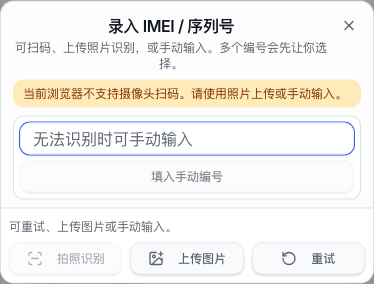
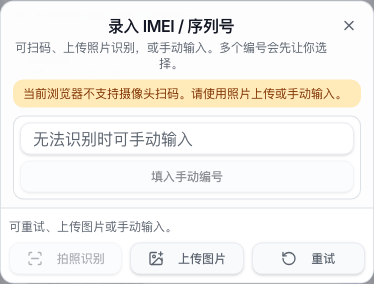
Fix IMEI overlay alignment and mobile focus

diff --git a/src/components/imei-scanner-field.tsx b/src/components/imei-scanner-field.tsx
@@ -42,6 +42,8 @@ type ImeiSelectableCandidate = ImeiCandidate & {
 type ImeiCapturePreview = {
   src: string;
   alt: string;
+  width?: number;
+  height?: number;
 };
 type ImeiRecognitionResult = {
   text: string;
@@ -49,6 +51,10 @@ type ImeiRecognitionResult = {
   detections?: ImeiBarcodeDetection[];
   preview?: ImeiCapturePreview;
   previewCleanup?: () => void;
+};
+type ImeiCaptureViewportSize = {
+  width: number;
+  height: number;
 };
 
 const imeiImageMaxBytes = 8 * 1024 * 1024;
@@ -100,9 +106,13 @@ export function ImeiScannerField({
   const [captureError, setCaptureError] = useState("");
   const [captureCandidates, setCaptureCandidates] = useState<ImeiSelectableCandidate[]>([]);
   const [capturePreview, setCapturePreview] = useState<ImeiCapturePreview | null>(null);
+  const [captureViewportSize, setCaptureViewportSize] = useState<ImeiCaptureViewportSize | null>(
+    null,
+  );
   const [selectedCandidateId, setSelectedCandidateId] = useState("");
   const [scannerManualValue, setScannerManualValue] = useState("");
   const videoRef = useRef<HTMLVideoElement | null>(null);
+  const captureViewportRef = useRef<HTMLDivElement | null>(null);
   const fileInputRef = useRef<HTMLInputElement | null>(null);
   const controlsRef = useRef<IScannerControls | null>(null);
   const capturePreviewCleanupRef = useRef<(() => void) | null>(null);
@@ -152,6 +162,7 @@ export function ImeiScannerField({
     setCaptureError("");
     setCaptureCandidates([]);
     replaceCapturePreview(null);
+    setCaptureViewportSize(null);
     setSelectedCandidateId("");
     setScannerManualValue("");
     setIsImageProcessing(false);
@@ -164,6 +175,37 @@ export function ImeiScannerField({
     },
     [],
   );
+
+  useEffect(() => {
+    if (!scannerOpen || !shouldShowCaptureViewport) {
+      setCaptureViewportSize(null);
+      return;
+    }
+
+    const element = captureViewportRef.current;
+    if (!element) return;
+
+    const updateViewportSize = () => {
+      const rect = element.getBoundingClientRect();
+      if (!rect.width || !rect.height) return;
+      setCaptureViewportSize((current) =>
+        current && current.width === rect.width && current.height === rect.height
+          ? current
+          : { width: rect.width, height: rect.height },
+      );
+    };
+
+    updateViewportSize();
+
+    if (typeof ResizeObserver === "undefined") {
+      window.addEventListener("resize", updateViewportSize);
+      return () => window.removeEventListener("resize", updateViewportSize);
+    }
+
+    const observer = new ResizeObserver(updateViewportSize);
+    observer.observe(element);
+    return () => observer.disconnect();
+  }, [scannerOpen, shouldShowCaptureViewport, capturePreview?.src]);
 
   const commitCandidate = useCallback(
     (candidate: ImeiCandidate) => {
@@ -524,7 +566,10 @@ export function ImeiScannerField({
       {warning && <p className="text-xs text-status-warn-foreground">{warning}</p>}
 
       <Dialog open={scannerOpen} onOpenChange={setScannerOpen}>
-        <DialogContent className="grid max-h-[calc(100svh-12px)] w-[min(32rem,calc(100vw-16px))] max-w-md grid-rows-[minmax(0,1fr)_auto] gap-0 overflow-hidden p-0">
+        <DialogContent
+          className="grid max-h-[calc(100svh-12px)] w-[min(32rem,calc(100vw-16px))] max-w-md grid-rows-[minmax(0,1fr)_auto] gap-0 overflow-hidden p-0"
+          onOpenAutoFocus={(event) => event.preventDefault()}
+        >
           <input
             ref={fileInputRef}
             type="file"
@@ -544,12 +589,15 @@ export function ImeiScannerField({
               </DialogDescription>
             </DialogHeader>
             {shouldShowCaptureViewport ? (
-              <div className="relative overflow-hidden rounded-md border bg-[var(--capture-preview)]">
+              <div
+                ref={captureViewportRef}
+                className="relative overflow-hidden rounded-md border bg-[var(--capture-preview)]"
+              >
                 {capturePreview ? (
                   <img
                     src={capturePreview.src}
                     alt={capturePreview.alt}
-                    className={captureViewportClassName}
+                    className={cn(captureViewportClassName, "object-contain")}
                   />
                 ) : (
                   <video
@@ -575,10 +623,11 @@ export function ImeiScannerField({
                               : "border-status-warn-foreground/90 bg-background/10 hover:bg-background/20",
                           )}
                           style={{
-                            left: `${candidate.box.x * 100}%`,
-                            top: `${candidate.box.y * 100}%`,
-                            width: `${candidate.box.width * 100}%`,
-                            height: `${candidate.box.height * 100}%`,
+                            ...getOverlayBoxStyle(
+                              candidate.box,
+                              capturePreview,
+                              captureViewportSize,
+                            ),
                           }}
                           aria-label={`选择画面候选 ${candidate.overlayIndex ?? index + 1}`}
                           aria-pressed={selectedCandidateId === candidate.id}
@@ -774,6 +823,8 @@ async function recognizeTextFromImageFile(file: File): Promise<ImeiRecognitionRe
       preview: {
         src: imageSource.image.src,
         alt: "上传图片预览",
+        width: imageSource.image.naturalWidth || imageSource.image.width,
+        height: imageSource.image.naturalHeight || imageSource.image.height,
       },
       previewCleanup: imageSource.cleanup,
     };
@@ -865,6 +916,8 @@ async function createImageElementFromVideoFrame(video: HTMLVideoElement) {
     preview: {
       src: image.src,
       alt: "当前摄像头画面截图",
+      width,
+      height,
     },
   };
 }
@@ -1034,6 +1087,50 @@ function findDetectionForCandidate(
     normalizeCaptureIdentifier(detection.rawValue).includes(candidate.value),
   );
   return directMatch ?? detections[fallbackIndex] ?? null;
+}
+
+function getOverlayBoxStyle(
+  box: ImeiCaptureBox,
+  preview: ImeiCapturePreview | null,
+  viewport: ImeiCaptureViewportSize | null,
+) {
+  if (!preview?.width || !preview.height || !viewport?.width || !viewport.height) {
+    return {
+      left: `${box.x * 100}%`,
+      top: `${box.y * 100}%`,
+      width: `${box.width * 100}%`,
+      height: `${box.height * 100}%`,
+    };
+  }
+
+  const imageRatio = preview.width / preview.height;
+  const viewportRatio = viewport.width / viewport.height;
+  const rendered =
+    viewportRatio > imageRatio
+      ? {
+          width: viewport.height * imageRatio,
+          height: viewport.height,
+          x: (viewport.width - viewport.height * imageRatio) / 2,
+          y: 0,
+        }
+      : {
+          width: viewport.width,
+          height: viewport.width / imageRatio,
+          x: 0,
+          y: (viewport.height - viewport.width / imageRatio) / 2,
+        };
+
+  const left = rendered.x + box.x * rendered.width;
+  const top = rendered.y + box.y * rendered.height;
+  const width = box.width * rendered.width;
+  const height = box.height * rendered.height;
+
+  return {
+    left: `${(left / viewport.width) * 100}%`,
+    top: `${(top / viewport.height) * 100}%`,
+    width: `${(width / viewport.width) * 100}%`,
+    height: `${(height / viewport.height) * 100}%`,
+  };
 }
 
 function getNormalizedDetectionBox(

diff --git a/src/components/imei-scanner-field.test.tsx b/src/components/imei-scanner-field.test.tsx
@@ -194,6 +194,18 @@ describe("ImeiScannerField", () => {
     expect(zxingMocks.stop).not.toHaveBeenCalled();
   });
 
+  it("does not autofocus the manual input when the scanner opens", async () => {
+    const user = userEvent.setup();
+    zxingMocks.decodeFromConstraints.mockResolvedValue({ stop: zxingMocks.stop });
+
+    render(<ImeiScannerField value="" onChange={vi.fn()} />);
+
+    await user.click(screen.getByRole("button", { name: "摄像头扫码录入 IMEI" }));
+
+    const manualInput = await screen.findByPlaceholderText("无法识别时可手动输入");
+    expect(manualInput).not.toHaveFocus();
+  });
+
   it("shows multiple camera candidates before committing a value", async () => {
     const user = userEvent.setup({ applyAccept: false });
     const onChange = vi.fn();
@@ -235,12 +247,63 @@ describe("ImeiScannerField", () => {
       HTMLCanvasElement.prototype,
       "toDataURL",
     );
+    const getBoundingClientRectDescriptor = Object.getOwnPropertyDescriptor(
+      HTMLElement.prototype,
+      "getBoundingClientRect",
+    );
     const barcodeDetectorDescriptor = Object.getOwnPropertyDescriptor(window, "BarcodeDetector");
 
     zxingMocks.decodeFromConstraints.mockResolvedValue({ stop: zxingMocks.stop });
+    vi.stubGlobal(
+      "ResizeObserver",
+      class ResizeObserverMock {
+        private readonly callback: ResizeObserverCallback;
+
+        constructor(callback: ResizeObserverCallback) {
+          this.callback = callback;
+        }
+
+        observe() {
+          this.callback([], this);
+        }
+
+        unobserve() {}
+
+        disconnect() {}
+      },
+    );
     Object.defineProperty(HTMLImageElement.prototype, "decode", {
       configurable: true,
       value: vi.fn().mockResolvedValue(undefined),
+    });
+    Object.defineProperty(HTMLElement.prototype, "getBoundingClientRect", {
+      configurable: true,
+      value(this: HTMLElement) {
+        if (this.querySelector('img[alt="当前摄像头画面截图"]')) {
+          return {
+            width: 320,
+            height: 160,
+            top: 0,
+            right: 320,
+            bottom: 160,
+            left: 0,
+            x: 0,
+            y: 0,
+            toJSON: () => undefined,
+          };
+        }
+        return {
+          width: 0,
+          height: 0,
+          top: 0,
+          right: 0,
+          bottom: 0,
+          left: 0,
+          x: 0,
+          y: 0,
+          toJSON: () => undefined,
+        };
+      },
     });
     Object.defineProperty(HTMLCanvasElement.prototype, "getContext", {
       configurable: true,
@@ -293,10 +356,14 @@ describe("ImeiScannerField", () => {
       expect(screen.getByRole("button", { name: /356938035643809/ })).toBeInTheDocument();
       expect(screen.getByRole("button", { name: /AUNWE02SB05002790/ })).toBeInTheDocument();
       expect(screen.getByAltText("当前摄像头画面截图")).toBeInTheDocument();
-      expect(screen.getByRole("button", { name: "选择画面候选 2" })).toBeInTheDocument();
+      const secondOverlayCandidate = screen.getByRole("button", { name: "选择画面候选 2" });
+      expect(secondOverlayCandidate).toBeInTheDocument();
+      await waitFor(() =>
+        expect(parseFloat(secondOverlayCandidate.style.left)).toBeGreaterThan(25),
+      );
       expect(onChange).not.toHaveBeenCalled();
 
-      await user.click(screen.getByRole("button", { name: "选择画面候选 2" }));
+      await user.click(secondOverlayCandidate);
       await user.click(screen.getByRole("button", { name: "使用选择的编号" }));
 
       expect(onChange).toHaveBeenLastCalledWith("356938035643809");
@@ -315,6 +382,15 @@ describe("ImeiScannerField", () => {
       }
       if (canvasToDataUrlDescriptor) {
         Object.defineProperty(HTMLCanvasElement.prototype, "toDataURL", canvasToDataUrlDescriptor);
+      }
+      if (getBoundingClientRectDescriptor) {
+        Object.defineProperty(
+          HTMLElement.prototype,
+          "getBoundingClientRect",
+          getBoundingClientRectDescriptor,
+        );
+      } else {
+        delete (HTMLElement.prototype as Partial<HTMLElement>).getBoundingClientRect;
       }
       if (barcodeDetectorDescriptor) {
         Object.defineProperty(window, "BarcodeDetector", barcodeDetectorDescriptor);

diff --git a/.ai-company/memory/tasks/TASK-20260709-003-imei-overlay-selection/EVIDENCE.md b/.ai-company/memory/tasks/TASK-20260709-003-imei-overlay-selection/EVIDENCE.md
@@ -15,6 +15,16 @@
 | E-011 | screenshot | mobile camera unsupported fallback no longer wastes video space | `screenshots/TASK-20260709-003-imei-overlay-selection/imei-new-order-camera-fallback-mobile-safari.png` | verified | 2026-07-08T23:12:58Z | CEO-Orchestrator |
 | E-012 | screenshot | fake camera mobile candidate and decoded states captured | `screenshots/TASK-20260709-003-imei-overlay-selection/imei-new-order-fake-camera-candidates-chromium-fake-camera-mobile.png`; `screenshots/TASK-20260709-003-imei-overlay-selection/imei-new-order-fake-camera-decoded-chromium-fake-camera-mobile.png` | verified | 2026-07-08T23:12:58Z | CEO-Orchestrator |
 | E-013 | tooling | `tools/ai_company.py checkpoint` unavailable under system Python 3.9 because `tomllib` requires Python 3.11+ | `python3 tools/ai_company.py checkpoint --help`; `python3 --version` | blocked, manual structured checkpoint used | 2026-07-08T23:12:58Z | CEO-Orchestrator |
+| E-014 | bug report | overlay boxes were visually misaligned and scanner open triggered mobile keyboard | owner screenshot and request | observed | 2026-07-08T23:24:57Z | CEO-Orchestrator |
+| E-015 | code | overlay box style now compensates object-contain rendered image offsets using preview dimensions and measured viewport size | `src/components/imei-scanner-field.tsx` | implemented | 2026-07-08T23:24:57Z | CEO-Orchestrator |
+| E-016 | code | scanner dialog open no longer autofocuses the manual input, preventing mobile keyboard auto popup | `src/components/imei-scanner-field.tsx` | implemented | 2026-07-08T23:24:57Z | CEO-Orchestrator |
+| E-017 | test | component regression covers no autofocus and contain-offset overlay compensation | `npm run test -- src/components/imei-scanner-field.test.tsx` | 18 passed | 2026-07-08T23:23:08Z | CEO-Orchestrator |
+| E-018 | static | TypeScript contract valid after bugfix | `npm run typecheck` | passed | 2026-07-08T23:23:08Z | CEO-Orchestrator |
+| E-019 | static | lint rules valid after bugfix | `npm run lint` | passed | 2026-07-08T23:24:15Z | CEO-Orchestrator |
+| E-020 | e2e | mobile/desktop/WebKit capture flow still passes and screenshots refreshed | `REPAIRDESK_E2E_ORDER_AUDIT=1 npx playwright test tests/e2e/imei-capture-ui.spec.ts --config=tests/e2e/imei-capture.playwright.config.ts` | 6 passed | 2026-07-08T23:23:55Z | CEO-Orchestrator |
+| E-021 | e2e | fake camera stream still decodes and commits IMEI on desktop/mobile Chromium | `REPAIRDESK_E2E_ORDER_AUDIT=1 npx playwright test tests/e2e/imei-camera-success.spec.ts --config=tests/e2e/imei-camera-success.playwright.config.ts` | 2 passed | 2026-07-08T23:24:05Z | CEO-Orchestrator |
+| E-022 | regression | full unit regression after bugfix | `npm run test` | 87 files, 604 tests passed | 2026-07-08T23:24:15Z | CEO-Orchestrator |
+| E-023 | build | production build after bugfix | `npm run build` | passed with escalated permissions due Turbopack local port binding | 2026-07-08T23:24:15Z | CEO-Orchestrator |
 
 ## Quality Gate
 
@@ -31,6 +41,7 @@ Test matrix:
 Residual risk:
 
 - Real iOS camera hardware can still differ from Playwright/mobile emulation; current code minimizes restart loops and keeps upload/manual fallback available.
+- Owner-provided screenshot is from a real phone/browser; the code now corrects the likely CSS coordinate cause, but a final live-device check on the same phone remains useful after deployment.
 
 Do not record secrets or unsupported “passed” claims. Prefer stable paths, commit
 IDs, test reports, screenshots, or concise log references.

diff --git a/.ai-company/memory/tasks/TASK-20260709-003-imei-overlay-selection/CHECKPOINTS.md b/.ai-company/memory/tasks/TASK-20260709-003-imei-overlay-selection/CHECKPOINTS.md
@@ -18,3 +18,13 @@
 - **Decisions:** On mobile, hide the manual input block after candidates exist so the main selection flow fits in one page; on unsupported-camera error, omit the empty black viewport and show upload/manual/retry directly.
 - **Risks/blockers:** `tools/ai_company.py checkpoint` could not run with system Python 3.9 due missing `tomllib`; this structured checkpoint was written manually. Real iOS hardware remains the final hardware-specific confidence layer, but Playwright mobile Safari and upload/manual fallbacks passed.
 - **Next:** stage scoped files, commit, push `main`, then report screenshot paths and validation summary.
+
+## 2026-07-08T23:24:57Z — Bugfix for overlay alignment and mobile keyboard
+
+- **Phase:** bugfix validation.
+- **Completed:** changed frozen-preview overlay positioning to compensate for `object-contain` image scaling/letterboxing by measuring the rendered viewport and using stored preview dimensions. Prevented Radix dialog open autofocus so the manual input no longer opens the phone keyboard on scanner open.
+- **Evidence:** `src/components/imei-scanner-field.tsx`; `src/components/imei-scanner-field.test.tsx`; refreshed screenshots under `screenshots/TASK-20260709-003-imei-overlay-selection/`.
+- **Validation:** `npm run test -- src/components/imei-scanner-field.test.tsx` passed 18 tests; `npm run typecheck` passed; `npm run lint` passed; IMEI capture E2E passed 6 projects; fake-camera E2E passed 2 projects; `npm run test` passed 87 files / 604 tests; `npm run build` passed.
+- **Decisions:** Do not overwrite `.ai-company/memory/ACTIVE_CONTEXT.md` because the workspace already has an unrelated `TASK-20260709-004-customer-kiosk-ipad-plan` active-context change. This checkpoint is stored in the IMEI task directory only.
+- **Risks/blockers:** final confirmation should be done on the same real phone/browser after deployment because the original issue was hardware/browser visual evidence.
+- **Next:** stage only IMEI code/tests/task-memory/screenshots, commit, push `main`, and leave unrelated kiosk-plan files untouched.

diff --git a/.ai-company/memory/tasks/TASK-20260709-003-imei-overlay-selection/MEMORY_DELTA.md b/.ai-company/memory/tasks/TASK-20260709-003-imei-overlay-selection/MEMORY_DELTA.md
@@ -16,6 +16,8 @@
 ## Candidate lessons and capability evidence
 
 - System Python 3.9 cannot run `tools/ai_company.py` because it imports `tomllib`; manual checkpoint update is acceptable fallback, but repo tooling should eventually run under Python 3.11+ or include compatibility import. Source: `python3 tools/ai_company.py checkpoint --help`. Status: observed. Owner: platform/tooling. Review trigger: future task memory CLI use.
+- For image barcode overlays, do not draw normalized barcode coordinates directly over an `object-cover`/`object-contain` element without accounting for rendered image offsets. Store preview dimensions and compensate using measured viewport size, or make the image itself the positioning coordinate space. Source: bugfix in `src/components/imei-scanner-field.tsx`. Status: validated. Owner: frontend/UX. Review trigger: future camera/photo overlay features.
+- Scanner dialogs should prevent open autofocus when the first focusable field is a manual fallback input; otherwise mobile browsers can open the keyboard immediately and cover the scanner workflow. Source: `onOpenAutoFocus` fix in `src/components/imei-scanner-field.tsx`. Status: validated. Owner: frontend/UX. Review trigger: future mobile dialogs with fallback inputs.
 
 Each candidate must include source, status, owner, scope, and review trigger
 before long-term consolidation.
